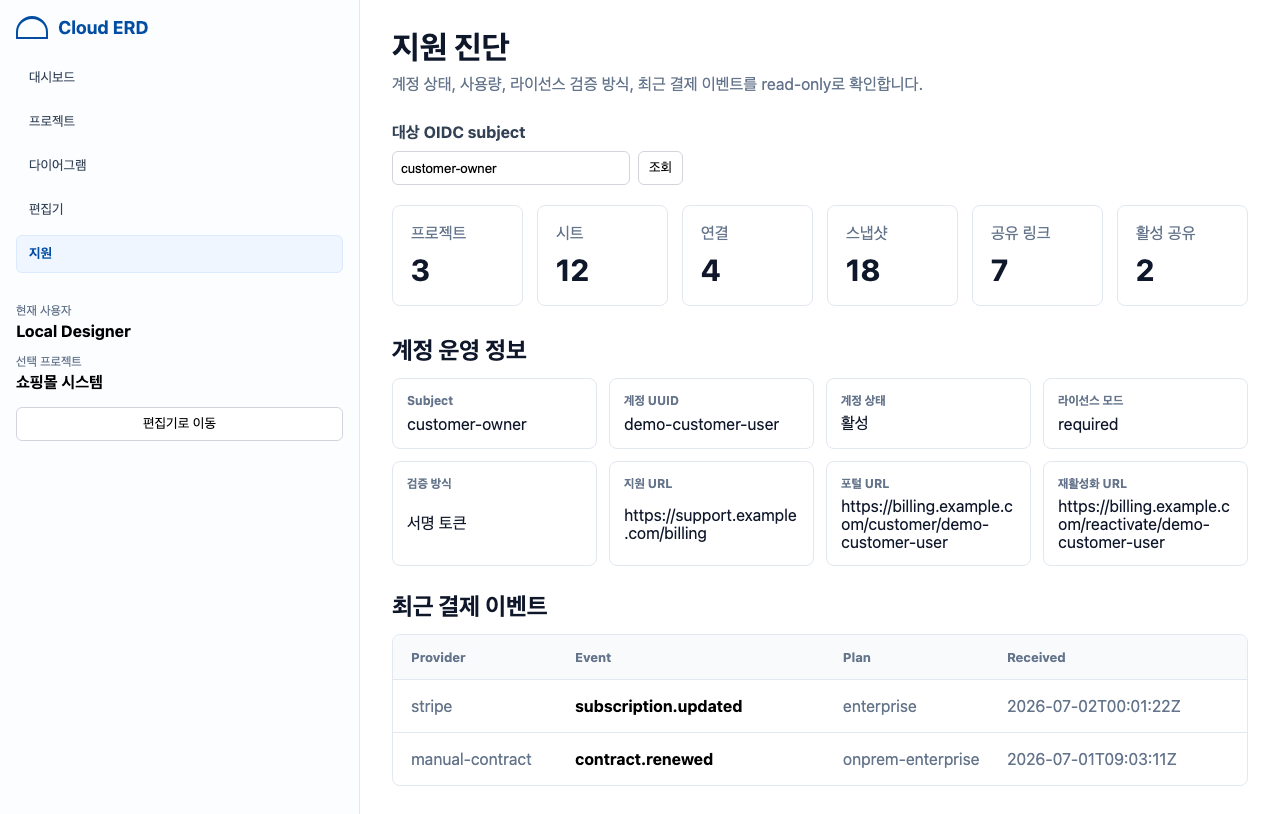
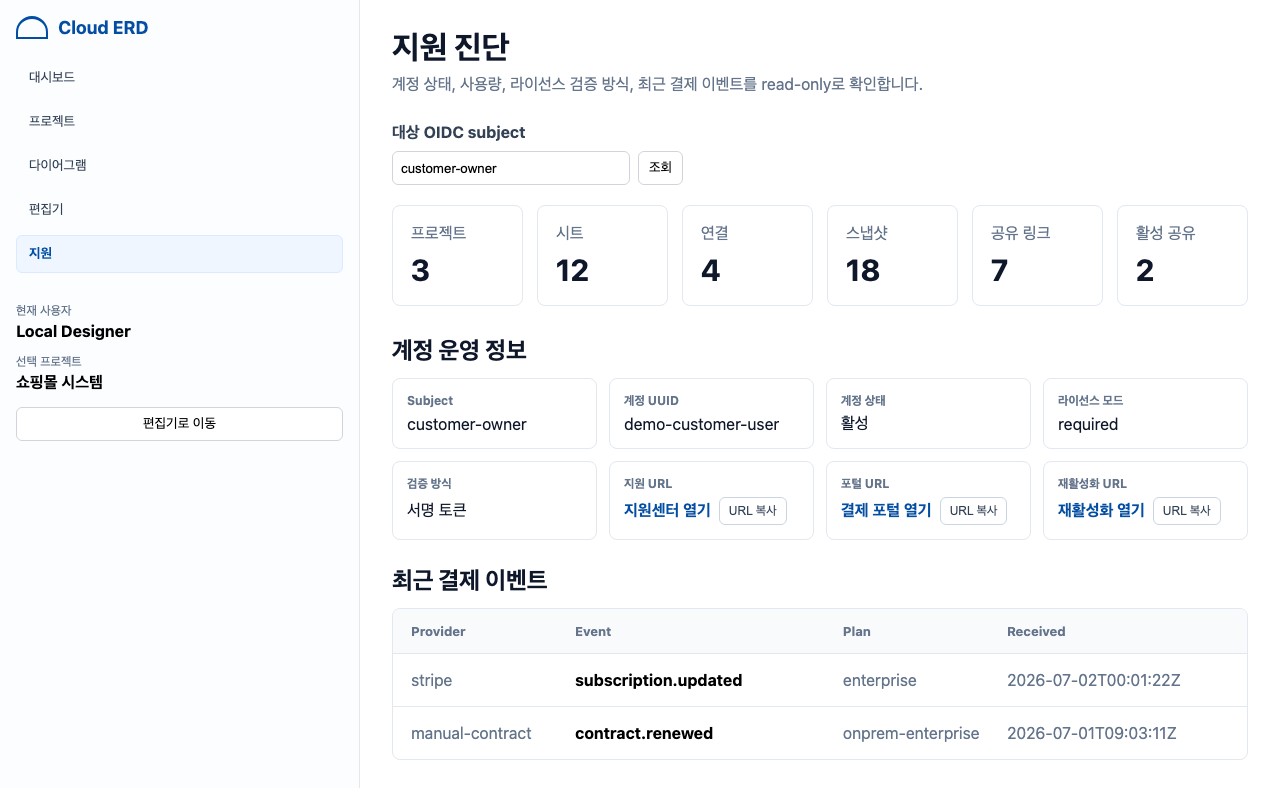
fix: polish support diagnostics trust UI

diff --git a/frontend/src/styles.css b/frontend/src/styles.css
@@ -331,6 +331,37 @@ textarea:focus-visible {
   overflow-wrap: anywhere;
 }
 
+.supportLinkValue {
+  display: flex;
+  flex-wrap: wrap;
+  gap: 8px;
+  align-items: center;
+}
+
+.supportLinkValue a {
+  color: #034ea2;
+  font-weight: 700;
+  text-decoration: none;
+}
+
+.supportLinkValue a:hover {
+  text-decoration: underline;
+}
+
+.supportLinkValue button {
+  min-height: 28px;
+  padding: 4px 9px;
+  border: 1px solid #cbd5e1;
+  border-radius: 6px;
+  background: #fff;
+  color: #334155;
+  font-size: 12px;
+}
+
+.supportLinkValue__missing {
+  color: #64748b;
+}
+
 .supportEvents__row {
   grid-template-columns: 1fr 1.7fr 1fr 1.5fr;
 }
@@ -1119,8 +1150,39 @@ button:disabled {
     min-width: 440px;
   }
 
+  .supportEvents {
+    overflow-x: visible;
+  }
+
+  .supportEvents .dataTable__row--head {
+    display: none;
+  }
+
   .supportEvents__row {
-    min-width: 720px;
+    min-width: 0;
+    grid-template-columns: 1fr;
+    gap: 8px;
+    align-items: stretch;
+    padding: 14px 18px;
+  }
+
+  .supportEvents__row + .supportEvents__row {
+    border-top: 1px solid #e2e8f0;
+  }
+
+  .supportEvents__row [role="cell"] {
+    display: flex;
+    justify-content: space-between;
+    gap: 14px;
+    min-width: 0;
+    overflow-wrap: anywhere;
+  }
+
+  .supportEvents__row [role="cell"]::before {
+    content: attr(data-label);
+    flex: 0 0 auto;
+    color: #64748b;
+    font-weight: 700;
   }
 
   .canvasToolbar {

diff --git a/frontend/src/App.tsx b/frontend/src/App.tsx
@@ -212,6 +212,7 @@ export default function App() {
   > | null>(null);
   const copyFeedbackTimeoutRef = useRef<number | null>(null);
   const shareCopyFeedbackTimeoutRef = useRef<number | null>(null);
+  const supportCopyFeedbackTimeoutRef = useRef<number | null>(null);
   const dsnInputRef = useRef<HTMLInputElement | null>(null);
 
   const [isLayouting, setIsLayouting] = useState(false);
@@ -227,6 +228,7 @@ export default function App() {
   const [supportAccount, setSupportAccount] = useState<BillingSupportAccount | null>(null);
   const [isSupportLookupLoading, setIsSupportLookupLoading] = useState(false);
   const [supportLookupError, setSupportLookupError] = useState<string | null>(null);
+  const [copiedSupportUrlLabel, setCopiedSupportUrlLabel] = useState<string | null>(null);
 
   const [editingEdge, setEditingEdge] = useState<Edge | null>(null);
   const [editingNode, setEditingNode] = useState<Node<TableNodeData> | null>(null);
@@ -309,6 +311,9 @@ export default function App() {
       }
       if (shareCopyFeedbackTimeoutRef.current !== null) {
         window.clearTimeout(shareCopyFeedbackTimeoutRef.current);
+      }
+      if (supportCopyFeedbackTimeoutRef.current !== null) {
+        window.clearTimeout(supportCopyFeedbackTimeoutRef.current);
       }
     };
   }, []);
@@ -703,6 +708,7 @@ export default function App() {
 
       setIsSupportLookupLoading(true);
       setSupportLookupError(null);
+      setCopiedSupportUrlLabel(null);
       try {
         setSupportAccount(await getBillingSupportAccount(subject));
       } catch {
@@ -713,6 +719,45 @@ export default function App() {
       }
     },
     [isSupportLookupLoading, supportSubject],
+  );
+
+  const onCopySupportUrl = useCallback(async (label: string, url: string) => {
+    try {
+      await navigator.clipboard.writeText(url);
+      setSupportLookupError(null);
+      setCopiedSupportUrlLabel(label);
+
+      if (supportCopyFeedbackTimeoutRef.current !== null) {
+        window.clearTimeout(supportCopyFeedbackTimeoutRef.current);
+      }
+
+      supportCopyFeedbackTimeoutRef.current = window.setTimeout(() => {
+        setCopiedSupportUrlLabel(null);
+        supportCopyFeedbackTimeoutRef.current = null;
+      }, 2000);
+    } catch {
+      setCopiedSupportUrlLabel(null);
+      setSupportLookupError(`${label} URL 복사에 실패했습니다.`);
+    }
+  }, []);
+
+  const renderSupportUrl = useCallback(
+    (label: string, actionLabel: string, url: string | null) => {
+      if (!url) return <span className="supportLinkValue__missing">미설정</span>;
+
+      const isCopied = copiedSupportUrlLabel === label;
+      return (
+        <span className="supportLinkValue">
+          <a href={url} target="_blank" rel="noreferrer">
+            {actionLabel}
+          </a>
+          <button type="button" onClick={() => void onCopySupportUrl(label, url)}>
+            {isCopied ? "복사됨" : "URL 복사"}
+          </button>
+        </span>
+      );
+    },
+    [copiedSupportUrlLabel, onCopySupportUrl],
   );
 
   function onDownloadSvg() {
@@ -1542,15 +1587,15 @@ export default function App() {
                     </div>
                     <div>
                       <dt>지원 URL</dt>
-                      <dd>{supportAccount.billing_support_url || "미설정"}</dd>
+                      <dd>{renderSupportUrl("지원", "지원센터 열기", supportAccount.billing_support_url)}</dd>
                     </div>
                     <div>
                       <dt>포털 URL</dt>
-                      <dd>{supportAccount.billing_portal_url || "미설정"}</dd>
+                      <dd>{renderSupportUrl("포털", "결제 포털 열기", supportAccount.billing_portal_url)}</dd>
                     </div>
                     <div>
                       <dt>재활성화 URL</dt>
-                      <dd>{supportAccount.account_reactivation_url || "미설정"}</dd>
+                      <dd>{renderSupportUrl("재활성화", "재활성화 열기", supportAccount.account_reactivation_url)}</dd>
                     </div>
                   </dl>
                 </section>
@@ -1569,10 +1614,10 @@ export default function App() {
                       </div>
                       {supportAccount.recent_billing_events.map((event) => (
                         <div className="dataTable__row supportEvents__row" role="row" key={event.billing_event_uuid}>
-                          <span role="cell">{event.provider}</span>
-                          <strong role="cell">{event.event_type}</strong>
-                          <span role="cell">{event.target_plan || "없음"}</span>
-                          <span role="cell">{event.received_at}</span>
+                          <span role="cell" data-label="Provider">{event.provider}</span>
+                          <strong role="cell" data-label="Event">{event.event_type}</strong>
+                          <span role="cell" data-label="Plan">{event.target_plan || "없음"}</span>
+                          <span role="cell" data-label="Received">{event.received_at}</span>
                         </div>
                       ))}
                     </div>

diff --git a/frontend/src/App.accessibility.test.tsx b/frontend/src/App.accessibility.test.tsx
@@ -150,6 +150,18 @@ describe('App accessibility smoke', () => {
     expect(getBillingSupportAccount).toHaveBeenCalledWith('customer-owner');
     expect(await screen.findByText('customer-user-uuid')).toBeInTheDocument();
     expect(screen.getByText('서명 토큰')).toBeInTheDocument();
+    expect(screen.getByRole('link', { name: '지원센터 열기' })).toHaveAttribute(
+      'href',
+      'https://support.example.com',
+    );
+    expect(screen.getByRole('link', { name: '결제 포털 열기' })).toHaveAttribute(
+      'href',
+      'https://billing.example.com',
+    );
+    expect(screen.getByRole('link', { name: '재활성화 열기' })).toHaveAttribute(
+      'href',
+      'https://billing.example.com/reactivate',
+    );
     expect(screen.getByRole('table', { name: '최근 결제 이벤트' })).toBeInTheDocument();
     expect(screen.getByText('subscription.updated')).toBeInTheDocument();
   });

diff --git a/frontend/e2e/app-smoke.spec.ts b/frontend/e2e/app-smoke.spec.ts
@@ -32,6 +32,14 @@ test('demo support operator can inspect billing diagnostics', async ({ page }) =
 
   await expect(page.getByText('demo-customer-user', { exact: true })).toBeVisible();
   await expect(page.getByText('서명 토큰')).toBeVisible();
+  await expect(page.getByRole('link', { name: '지원센터 열기' })).toHaveAttribute(
+    'href',
+    'https://support.example.com/billing',
+  );
+  await expect(page.getByRole('link', { name: '결제 포털 열기' })).toHaveAttribute(
+    'href',
+    'https://billing.example.com/customer/demo-customer-user',
+  );
   await expect(page.getByRole('table', { name: '최근 결제 이벤트' })).toBeVisible();
   await expect(page.getByText('subscription.updated')).toBeVisible();
 });

diff --git a/docs/ui-ux/product-design-audit.md b/docs/ui-ux/product-design-audit.md
@@ -105,7 +105,7 @@ the next focused code PR, not as proof that the production UI already changed.
 
 ## Findings
 
-### P1. Support diagnostics is now demoable, but narrow-width billing evidence loses context
+### P1. Support diagnostics is now demoable, with narrow-width evidence improved
 
 Evidence:
 
@@ -121,24 +121,22 @@ Evidence:
 Impact:
 
 - Desktop support diagnostics are credible for paid-pilot support demos: counts,
-  account state, license verifier, support URL, billing portal URL,
-  reactivation URL, and recent billing events are all visible in one operator
+  account state, license verifier, named support/billing/reactivation links,
+  URL copy actions, and recent billing events are all visible in one operator
   flow.
-- Narrow support diagnostics reflows the summary cards and account details, but
-  the recent billing events table loses `Plan` and `Received` context off-screen.
-  That is acceptable as fallback evidence, but not as a polished buyer-critical
-  mobile support workflow.
-- Long billing and reactivation URLs wrap inside cards, which can reduce trust
-  during live support calls even though the data is available.
+- Narrow support diagnostics now reflows the summary cards, account details,
+  URL actions, and billing events without hiding `Plan` or `Received` context.
+- The remaining risk is scale evidence: real provider payloads can contain long
+  event names, contract IDs, timestamps, and plan names that still need
+  production-like stress testing.
 
 Recommendation:
 
 - Keep the support diagnostics implementation as an operator-only read path.
-- For the next UI slice, convert recent billing events to stacked cards below
-  narrow widths or add an explicit horizontal-scroll affordance with preserved
-  column labels.
-- Format billing/support URLs as named links with copy actions instead of raw
+- Keep billing/support URLs as named links with copy actions rather than raw
   full URLs in the account detail cards.
+- Preserve the stacked narrow-width billing event labels and add stress fixtures
+  before claiming mobile support workflow completeness.
 - Preserve the demo-only `?demo-support=operator` path as Product Design and
   sales-engineering evidence, not as a production authorization shortcut.
 

diff --git a/docs/ui-ux/qa/2026-07-02-support-diagnostics-audit/README.md b/docs/ui-ux/qa/2026-07-02-support-diagnostics-audit/README.md
@@ -21,16 +21,14 @@ Evidence files:
 
 1. `01-support-diagnostics-desktop.png`
    - Desktop operator view after looking up `customer-owner`.
-   - Health: usable for operator review.
-   - Risk: long billing and reactivation URLs wrap awkwardly inside detail
-     cards.
+   - Health: improved for operator review.
+   - Evidence: support, billing portal, and reactivation destinations are shown
+     as named links with URL copy actions instead of raw full URLs.
 2. `02-support-diagnostics-mobile.png`
    - Narrow viewport support diagnostics view.
-   - Health: stable and reachable.
-   - Risk: recent billing event table hides plan and received-at context
-     off-screen, so the narrow support view needs stacked events or an explicit
-     horizontal-scroll cue before it can be treated as a buyer-critical mobile
-     support workflow.
+   - Health: stable and usable as a review/support fallback.
+   - Evidence: recent billing events preserve `Provider`, `Event`, `Plan`, and
+     `Received` labels in stacked rows.
 3. `03-demo-dashboard-commercial.png`
    - Default commercial demo dashboard.
    - Health: solid buyer-demo entry state.
@@ -48,13 +46,14 @@ Audit conclusion:
   support demos when the operator is authorized.
 - The default dashboard remains appropriate as the buyer entry point, but it
   does not yet communicate billing or support trust signals.
-- Narrow-width support diagnostics should remain a review/support fallback, not
-  a primary mobile workflow, until event rows are redesigned for stacked reading.
+- Narrow-width support diagnostics is now readable as a review/support fallback.
+  It still needs production-scale stress testing with real provider payloads
+  before being treated as a primary mobile support workflow.
 
 Implementation evidence:
 
 - `frontend/src/api.ts` exposes demo-only support-operator state through
   `?demo-support=operator`.
 - `frontend/e2e/app-smoke.spec.ts` verifies that the support operator can open
-  the support diagnostics screen, look up a subject, and inspect recent billing
-  events.
+  the support diagnostics screen, look up a subject, inspect recent billing
+  events, and see named support/billing links.

diff --git a/docs/commercial-readiness.md b/docs/commercial-readiness.md
@@ -64,11 +64,11 @@ blocker로 분류합니다.
   디자인 파일의 `Support diagnostics commercial-readiness audit` 섹션
   <https://www.figma.com/design/OTN0rBGtnVy0P7yq4Iv9Si?node-id=48-2>에 배치했습니다.
 - desktop support diagnostics는 paid-pilot 지원 데모에 사용할 수 있는 수준입니다.
-  다만 narrow viewport에서는 billing event의 plan/received context가 표 밖으로
-  밀려나므로, 일반 판매 전에는 stacked event card 또는 명확한 horizontal-scroll
-  cue가 필요합니다.
-- raw billing/support URL은 카드 안에서 줄바꿈되어 보입니다. 다음 UI slice에서는
-  named link와 copy action으로 바꾸는 것이 구매자 신뢰 관점에서 적절합니다.
+  support/billing/reactivation destination은 raw URL 대신 named link와 URL copy
+  action으로 표시합니다.
+- narrow viewport에서도 billing event의 provider/event/plan/received context를
+  stacked row label로 보존합니다. 일반 판매 전 잔여 과제는 실제 provider payload와
+  장문 계약 식별자로 stress fixture를 추가하는 것입니다.
 
 ## 상업 릴리즈 진입 판정(실시간)
 

diff --git a/docs/superpowers/plans/2026-07-02-krw-2b-commercialization.md b/docs/superpowers/plans/2026-07-02-krw-2b-commercialization.md
@@ -213,9 +213,10 @@ Tasks:
 - Keep `/?demo-support=operator` available in `VITE_DEMO_MODE=true` as a
   sales-engineering and Product Design evidence path for support diagnostics.
 - Track support diagnostics UI follow-ups:
-  raw billing/support URLs should become named links with copy actions, and
-  narrow-width billing events should become stacked cards or expose a clear
-  horizontal-scroll affordance.
+  raw billing/support URLs are now named links with copy actions, and
+  narrow-width billing events preserve their labels in stacked rows. The next
+  support-diagnostics UX gap is production-scale stress fixtures for long
+  provider events, contract IDs, plan names, and timestamps.
 - Convert every `P0` design issue into a frontend task with test coverage.
 
 Verification: